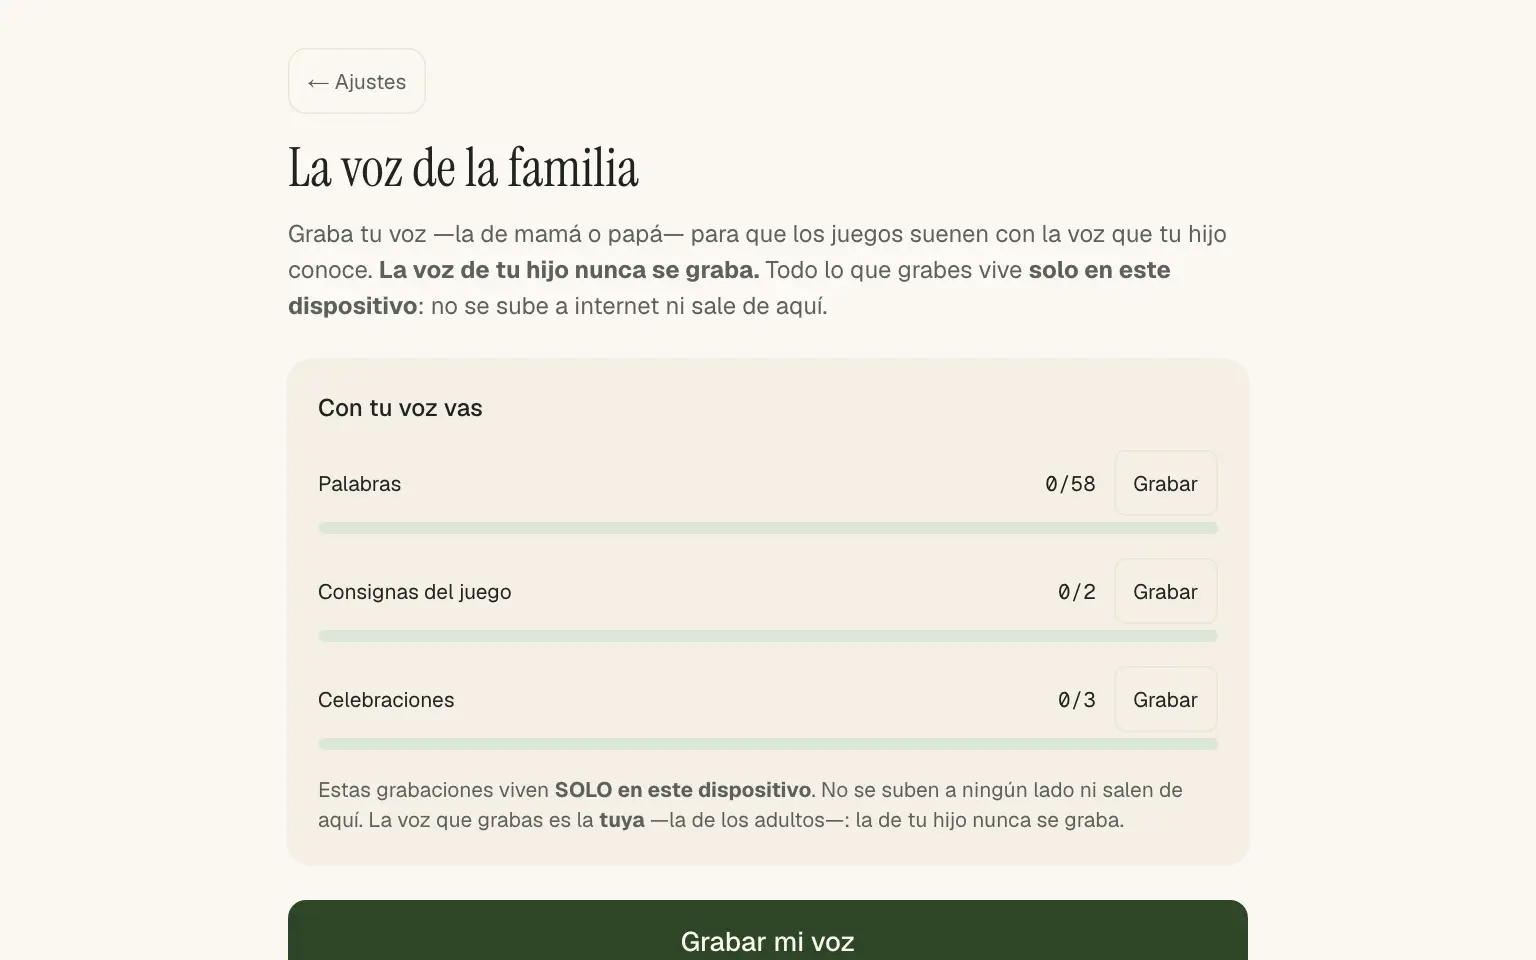
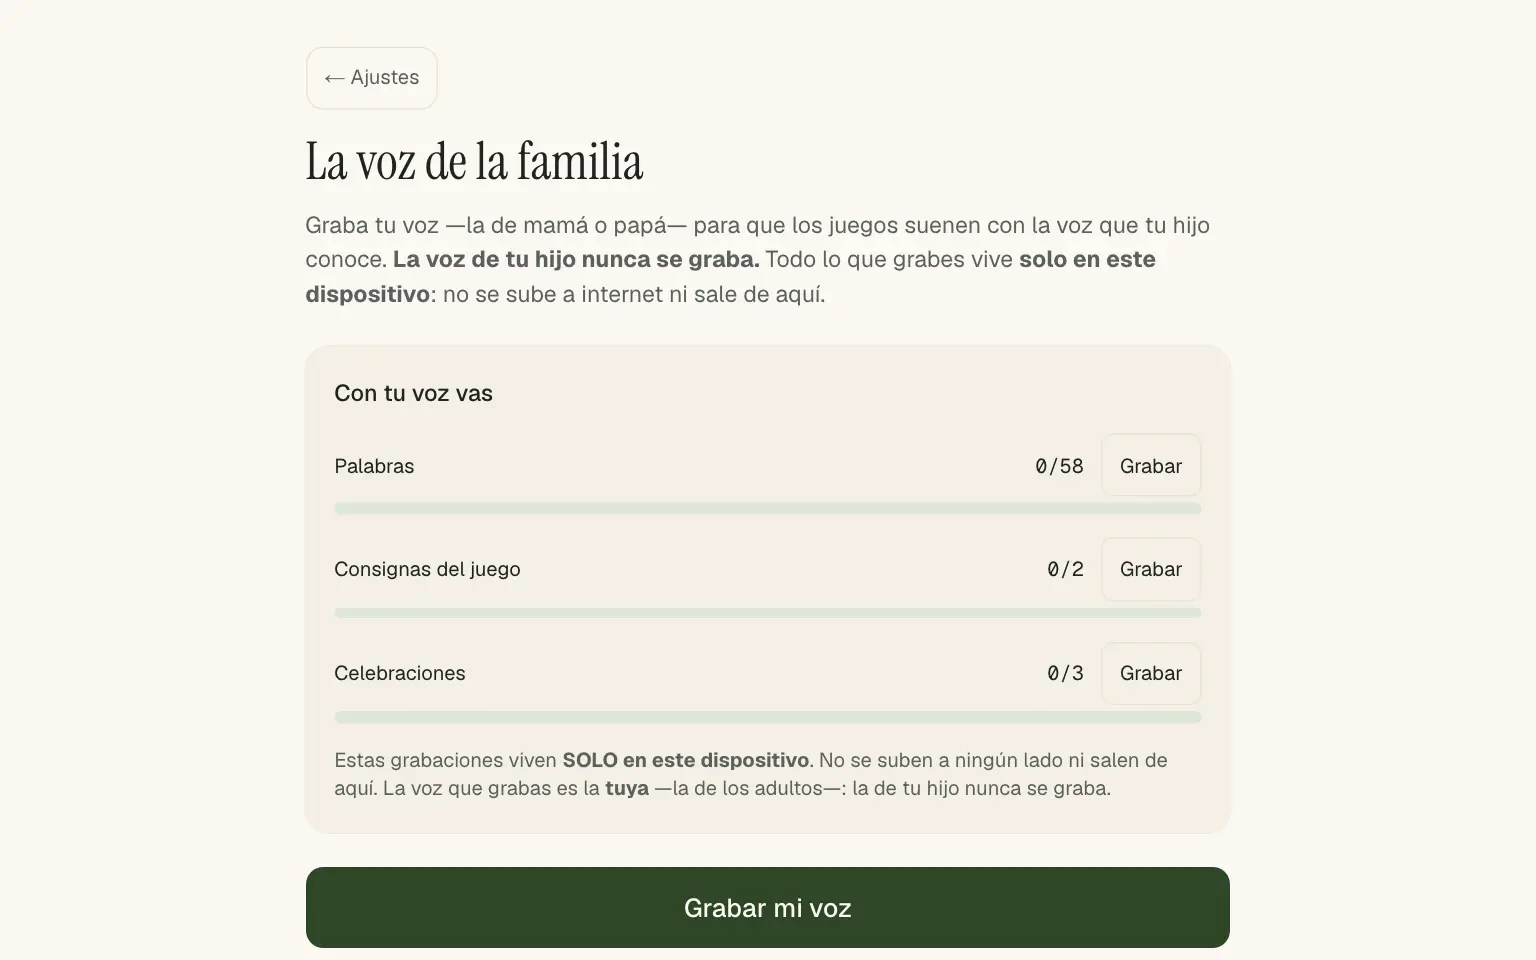
fix(vitrina): S5 — ninguna captura sale cortada: la escena encuadra su bloque entero
Cada escena declara con `foco` el bloque que debe verse COMPLETO (desde:
"top" incluye el encabezado; cual: "ultimo" elige la última coincidencia) y
si no cabe en el cuadro, la página se encoge con zoom: el sobrante lo llena
el fondo de la app, jamás un bloque rebanado. Margen inferior a ras (8px)
para que no asome el filo de la tarjeta siguiente.

Trampa documentada: el caché de imágenes del dev de Next 16 vive en
.next/dev/cache/images — al refotografiar con el mismo nombre, la variante
webp siguió sirviéndose vieja (HIT) mientras curl (jpeg) recibía la nueva.
Tras regenerar capturas: limpiar ese caché y reiniciar el dev.

axe 20/20 · 174 unit · build OK

diff --git a/sprints/SPRINT_005-implementation-log.md b/sprints/SPRINT_005-implementation-log.md
@@ -388,3 +388,27 @@ ancho como banner del grupo** y las funcionalidades debajo; el layout de dos col
 vertical se eliminó. Las 6 nuevas pesan 222 KB (las verticales pesaban 297).
 
 Verde: typecheck · lint · 174 unit · axe 20/20 (dev apagado) · build.
+
+### Nada sale cortado: la escena declara su bloque COMPLETO (gate M1, ronda 3)
+
+Veredicto del usuario: buenas imágenes, pero todas cortadas — la ventana rebanaba los bloques por
+la mitad. Corrección en el script: cada escena declara con `foco` **el bloque que debe verse
+ENTERO** (`desde: "top"` arranca la región en el techo de la página; `cual: "ultimo"` elige la
+última coincidencia). Si la región no cabe en el cuadro 1024×640, la página **se encoge con zoom**
+hasta que quepa: el sobrante lo llena el fondo de la app, jamás un bloque rebanado. Margen inferior
+de 8px (el hueco entre tarjetas de habla es ~24px: un margen holgado dejaba asomar el filo del
+bloque siguiente — cazado en la pasada de capturas de ajustes).
+
+Los seis encuadres de habla: la cápsula entera con sus CTAs · título + los 4 juegos · techo→«Grabar
+mi voz» · título + formulario del objetivo · el rumbo vacío · título + primera tarjeta de ajustes.
+
+**Trampa de infraestructura que costó una hora: el caché de imágenes de Next 16 en dev vive en
+`.next/dev/cache/images`** (no en `.next/cache/images`, la ruta clásica). Al refotografiar sin
+cambiar el nombre del archivo, `next/image` siguió sirviendo la variante **webp** vieja (con
+`X-Nextjs-Cache: HIT`) mientras curl —que negocia jpeg— recibía la nueva: el mismo archivo, DOS
+variantes de caché, solo una regenerada. El diagnóstico fue interceptar los bytes que recibía el
+navegador (Playwright `page.on("response")`) en vez de confiar en curl. Regla operativa: **tras
+regenerar capturas, `rm -rf .next/dev/cache/images` y reiniciar el dev** (el build de producción no
+sufre esto: nace con caché vacío).
+
+Verde: axe 20/20 · 174 unit · build.
